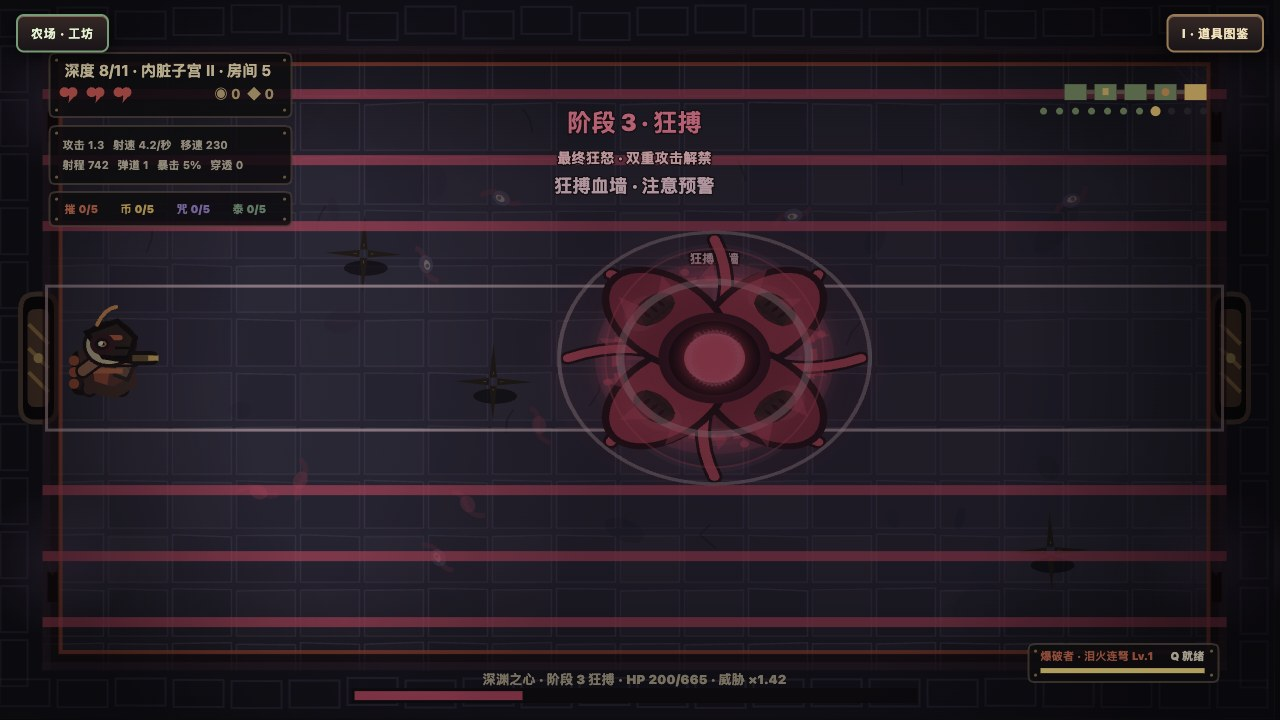
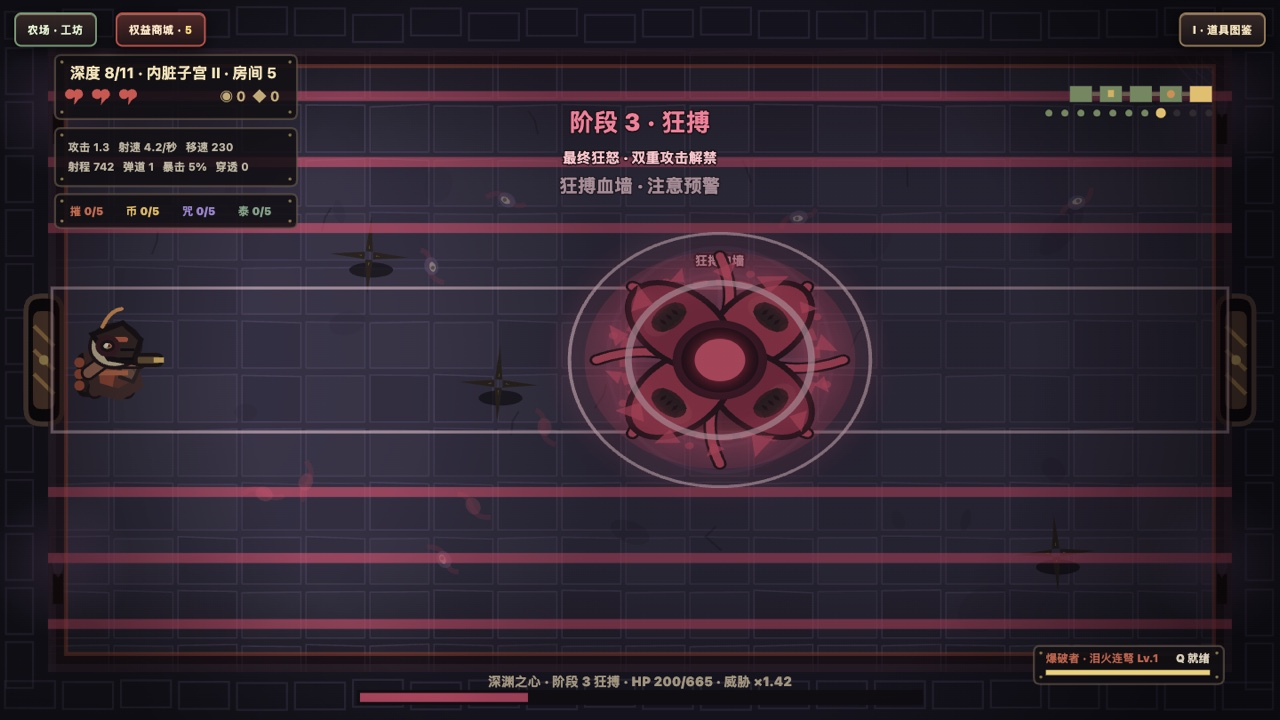
docs: refresh latest gameplay screenshots

diff --git a/README.md b/README.md
@@ -31,6 +31,8 @@
 
 ## 游戏画面
 
+以下画面均由当前权益商城版实机运行与自动化场景复现后重新截取，覆盖首页、战斗、Boss、路线、构筑、工坊、权益商城与移动端适配。
+
 <table>
   <tr>
     <td width="50%" valign="top">
